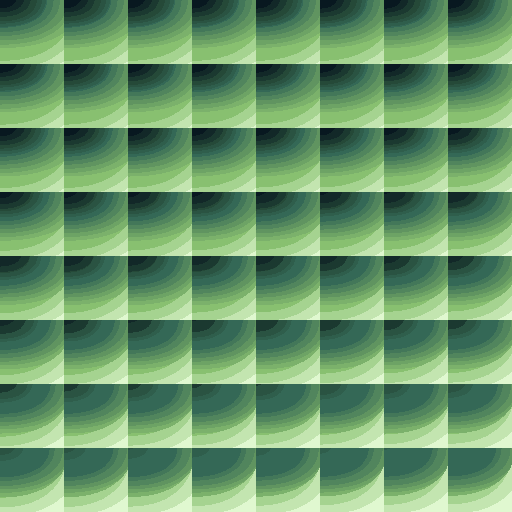
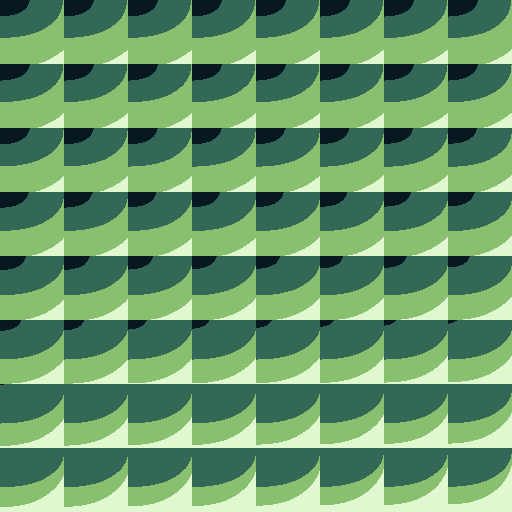
Switch to authentic 4-shade hardware Game Boy palette
Drop the 16-step ramp to the four real DMG blue-green shades (#081820,
#346856, #88c070, #e0f8d0) and let the Bayer dither blend them into the
illusion of more shades — the way the actual Game Boy screen worked. Bump
dither_strength (0.09 -> 0.17) so the ordered dither bridges the wider gaps
between four colours cleanly.

diff --git a/tools/gen_gameboy_lut.py b/tools/gen_gameboy_lut.py
@@ -20,17 +20,16 @@ from PIL import Image
 sys.path.insert(0, os.path.dirname(os.path.abspath(__file__)))
 from gen_palette_lut import build_lut
 
-# Classic Game Boy (DMG) green gradient, dark -> light, interpolated into a smooth monochrome
-# ramp: a deep bottle-green shadow up through the screen's mid greens to a pale phosphor white.
+# The four hardware Game Boy (DMG) blue-green shades, dark -> light. The real screen only ever
+# showed these four, and the Bayer dither in the shader blends them into the illusion of more —
+# so this is the most hardware-accurate look, not a smooth 16-step ramp.
 GB_ANCHORS = [
     (0x08, 0x18, 0x20),
-    (0x25, 0x49, 0x38),
     (0x34, 0x68, 0x56),
-    (0x60, 0x94, 0x60),
     (0x88, 0xc0, 0x70),
     (0xe0, 0xf8, 0xd0),
 ]
-COLORS = 16
+COLORS = 4
 
 
 def gameboy_palette(n=COLORS):